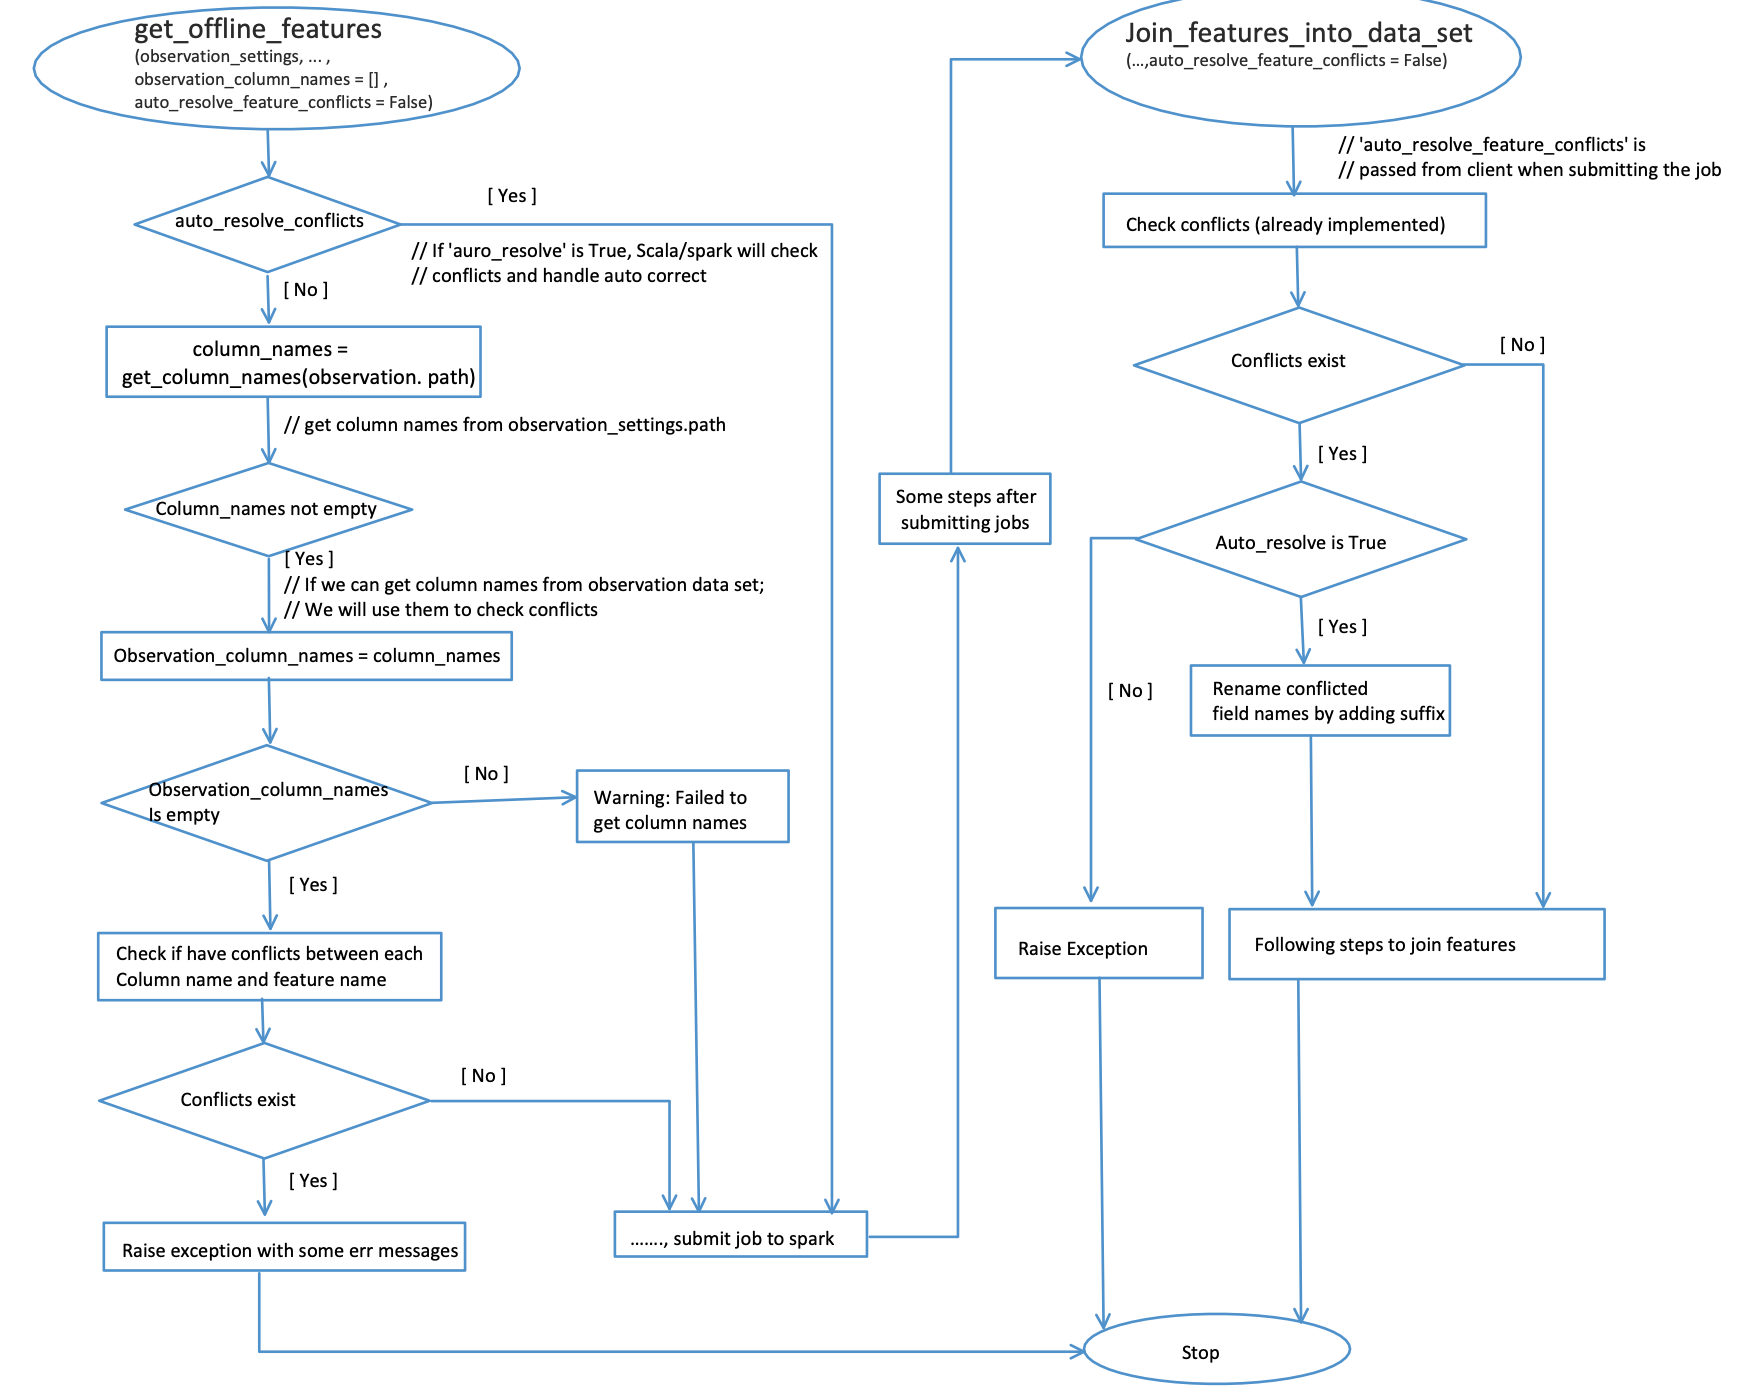
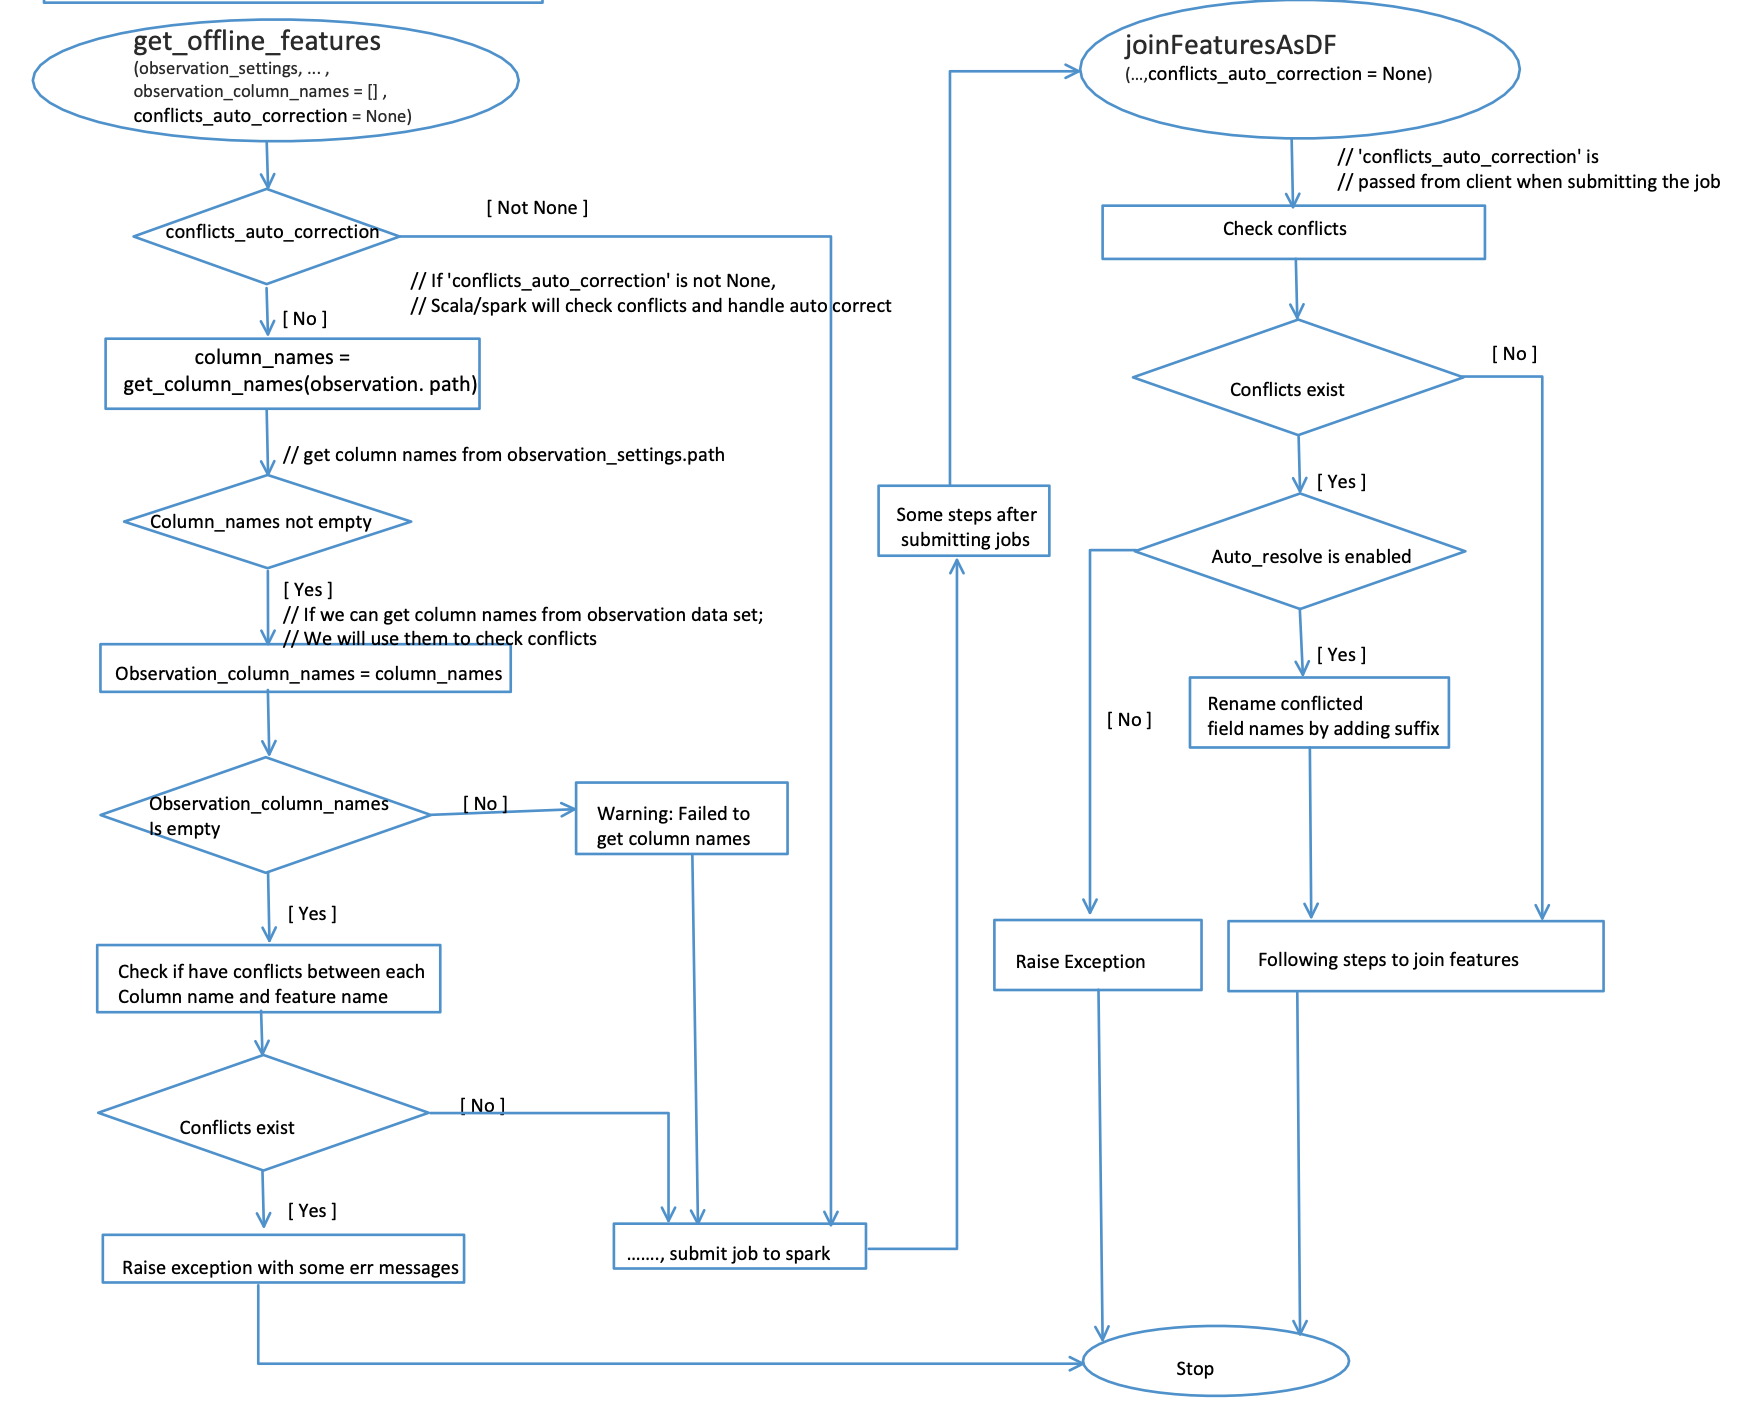
update docs

diff --git a/feathr_project/feathr/client.py b/feathr_project/feathr/client.py
@@ -533,7 +533,6 @@ class FeathrClient(object):
                         conflict_names.append(feature_name)
                 if len(conflict_names) != 0:
                     conflict_names = ",".join(conflict_names)
-                # TODO: add auto-correction option
                     raise RuntimeError(f"Feature names exist conflicts with dataset column names: {conflict_names}")
            
         udf_files = _PreprocessingPyudfManager.prepare_pyspark_udf_files(feature_names, self.local_workspace_dir)

diff --git a/docs/concepts/get-offline-features.md b/docs/concepts/get-offline-features.md
@@ -85,7 +85,7 @@ The checking steps are:
 3. If cannot load the dataset in the first step, will try to load it with credential anc compare column names with feature names. It can only support loading files from storages requiring credential your environment defined. For example, if your `spark_cluster` is `databricks`, it can only load dataset under the 'dbfs' path belonging to this databricks.
 4. If cannot load the dataset from step1 and step2, will try to compare column names provided by the parameter `dataset_column_names` if it's not empty.
 5. If cannot get column names from above 3 steps, will show a warning message and submit the job to cloud. The spark will also check this kind of conflicts.
-6. If any conflicts found in step 1 to 3, will throw an exception and the process will be stoped. (Plan to provide the auto correction function soon). To solve these conflicts, you may either change related dataset column names or change feature names. If you decide to change feature names and you have registered these features, you may need to register them again with updated names and a new project name. 
+6. If any conflicts found in step 1 to 3, will throw an exception and the process will be stoped. To solve these conflicts, you may either change related dataset column names or change feature names. If you decide to change feature names and you have registered these features, you may need to register them again with updated names and a new project name. 
 
 Workflow graph for the conflicts checking and handling:
 ![conflicts-check-and-handle](../images/conflicts-check-and-handle.png)
